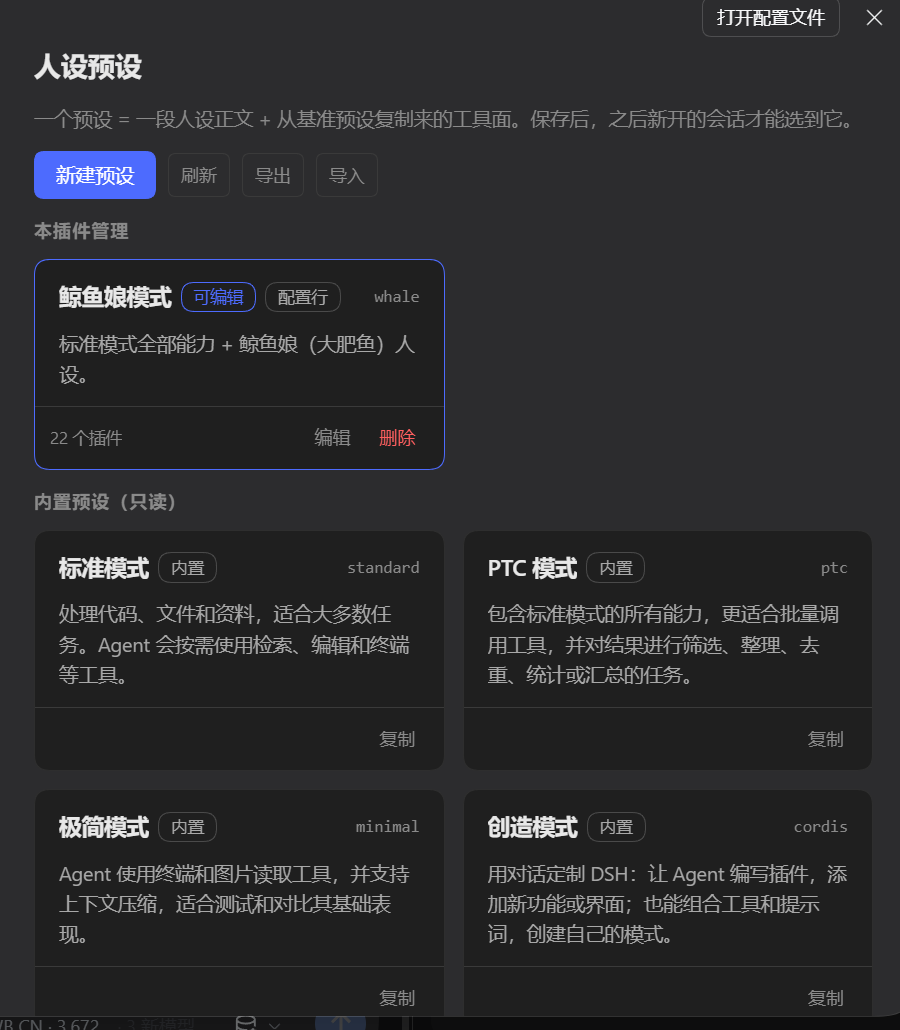
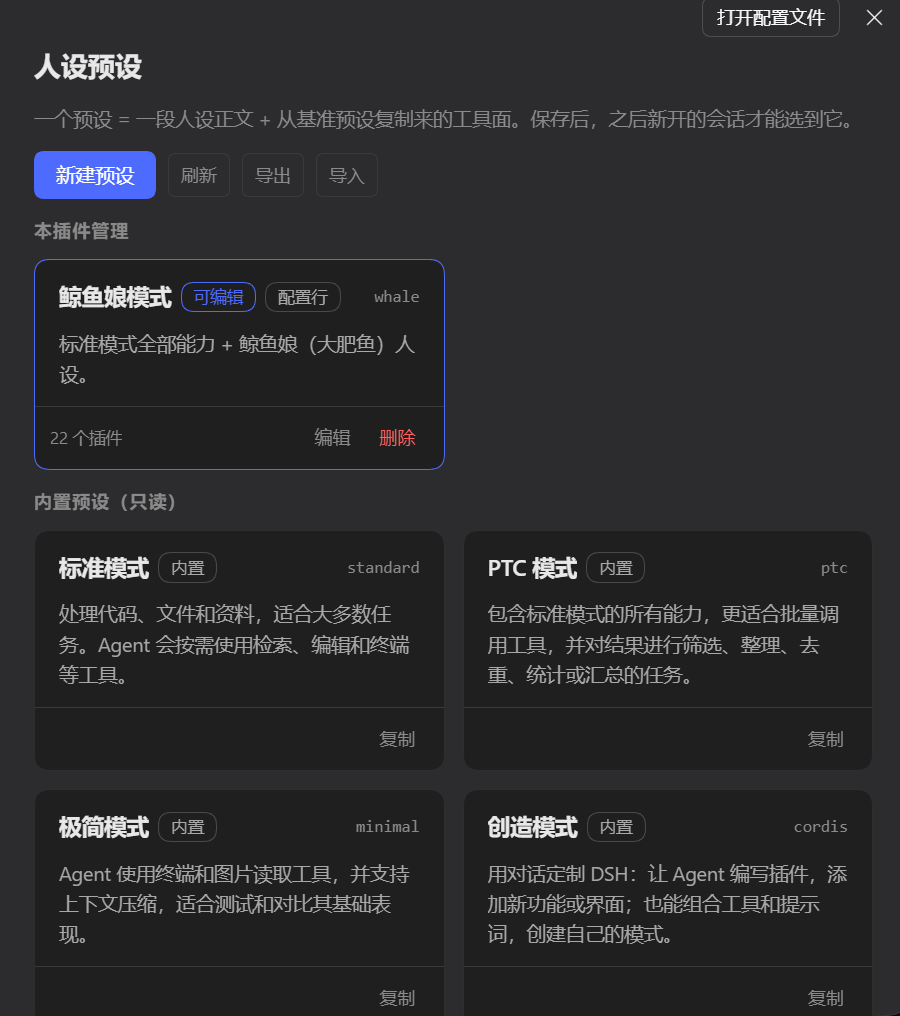
fix: a Markdown import fills only the body, never the other fields
Picking a .md file rebuilt the whole draft, so an id, display name, description and order typed before the click were silently thrown away. Only the 0.1.3 path (importing while an existing preset was open) had been fixed.

An import now touches the persona textarea and nothing else. The file name still seeds the display name, but only while that field is empty, so the pick-a-file-first path does not end in an unnamed preset.

diff --git a/lib/client.js b/lib/client.js
@@ -93,7 +93,7 @@ window.__ModuleLoader__.load({
         exported: 'Exported.',
         imported: 'Imported.',
         badJson: (message) => `The file is not valid JSON: ${message}`,
-        importedMarkdown: (name) => `“${name}” loaded into the editor. Set an id and name, then save.`,
+        importedMarkdown: (name) => `“${name}” loaded into the editor. What you already filled in is kept; nothing is written until you save.`,
         importedMarkdownInto: (name, preset) => `“${name}” replaced the body of “${preset}”. Nothing is written until you save.`,
         idHint: 'lowercase letters, digits, hyphens',
         pluginCount: (n) => `${n} plugins`,
@@ -163,7 +163,7 @@ window.__ModuleLoader__.load({
         exported: '已导出。',
         imported: '已导入。',
         badJson: (message) => `文件不是合法的 JSON：${message}`,
-        importedMarkdown: (name) => `已把「${name}」的内容读入编辑器，填好 ID 和名称后保存即可。`,
+        importedMarkdown: (name) => `已把「${name}」的内容读入编辑器，已填写的内容都保留，保存后才会写入。`,
         importedMarkdownInto: (name, preset) => `已把「${name}」的正文替换「${preset}」原有内容，保存后才会写入。`,
         idHint: '小写字母、数字、连字符',
         pluginCount: (n) => `${n} 个插件`,
@@ -1214,11 +1214,12 @@ window.__ModuleLoader__.load({
       /**
        * Import either a preset bundle (`.json`) or a persona document (`.md`).
        *
-       * A Markdown file carries only prose, so there is nothing to merge into the
-       * library directly: no id, no display name, no tool surface. It opens the
-       * new-preset editor with the text already in the persona field, and the user
-       * picks the id, name and base preset. Silently inventing an id would create
-       * a preset nobody asked for under a name nobody chose.
+       * A Markdown file carries only prose, so it can only fill the persona
+       * field of whatever editor is open. An open draft keeps every other field
+       * the user already typed — a file must never overwrite an id, name,
+       * description, order or base preset the user chose on purpose. With no
+       * editor open there is nothing to merge into, so the file opens a new
+       * draft and lends it its file name as the display name.
        */
       const importFile = useCallback(
         (event) => {
@@ -1231,17 +1232,29 @@ window.__ModuleLoader__.load({
             const text = String(reader.result ?? '');
             if (isMarkdown) {
               const body = text.replace(/\r\n/g, '\n');
-              // Importing while an existing preset is open means "replace this
-              // body", not "start over": opening a new draft here threw away
-              // the preset the user was looking at and left them with a blank
-              // id. Only a brand-new draft needs the file name as a name.
-              if (draft !== null && draft.isNew !== true) {
-                setDraft(Object.assign({}, draft, { persona: body }));
+              const suggested = file.name.replace(/\.(md|markdown|txt)$/i, '');
+              // A Markdown file only carries prose, so an import may replace the
+              // textarea and nothing else. Any open draft — new or existing —
+              // keeps the id, display name, description and order the user is
+              // already looking at: rebuilding the draft from the file used to
+              // wipe a half-filled form the moment the user picked a file.
+              if (draft !== null) {
+                const merged = Object.assign({}, draft, { persona: body });
+                // A brand-new form left without a name still gets a usable one
+                // from the file, so the common "pick a file first" path does not
+                // end in an unnamed preset. Typed values always win.
+                if (draft.isNew === true && String(draft.name || '').trim() === '') {
+                  merged.name = suggested;
+                }
+                setDraft(merged);
                 setPreviewing(false);
-                setNotice(t.importedMarkdownInto(file.name, draft.name || draft.id));
+                setNotice(
+                  draft.isNew === true
+                    ? t.importedMarkdown(file.name)
+                    : t.importedMarkdownInto(file.name, draft.name || draft.id),
+                );
                 return;
               }
-              const suggested = file.name.replace(/\.(md|markdown|txt)$/i, '');
               openNew({
                 id: '',
                 name: suggested,

diff --git a/CHANGELOG.md b/CHANGELOG.md
@@ -1,5 +1,16 @@
 # 更新记录
 
+## 0.1.4
+
+### 修复
+
+- **先填好 ID、名称、说明、排序，再点导入，填的内容会被覆盖**。此前 `.md` 导入会把编辑器整个按文件重建：ID 清空、名称换成文件名、说明和排序回到默认值。现在文件只提供正文——**任何已打开的编辑器都只替换textarea，其余字段原样保留**（编辑已有预设时行为同 0.1.3，即只换正文）。只有当名称为空时才用文件名补一个，避免「先选文件」的路径产出一个没名字的预设。
+- 导入提示文案随之改了：不再说「填好 ID 和名称」，改成「已填写的内容都保留」。
+
+### 测试
+
+断言从 229 条增加到 237 条（client 103 → 111）。新增覆盖：先填 ID / 名称 / 排序 / 说明再导入，四个字段全部保留、正文仍然落入、提示不再要求填 ID；名称为空时仍取文件名。
+
 ## 0.1.3
 
 一个以「收窄职责」为主的版本：插件只管管理，不再顺带发人设。
